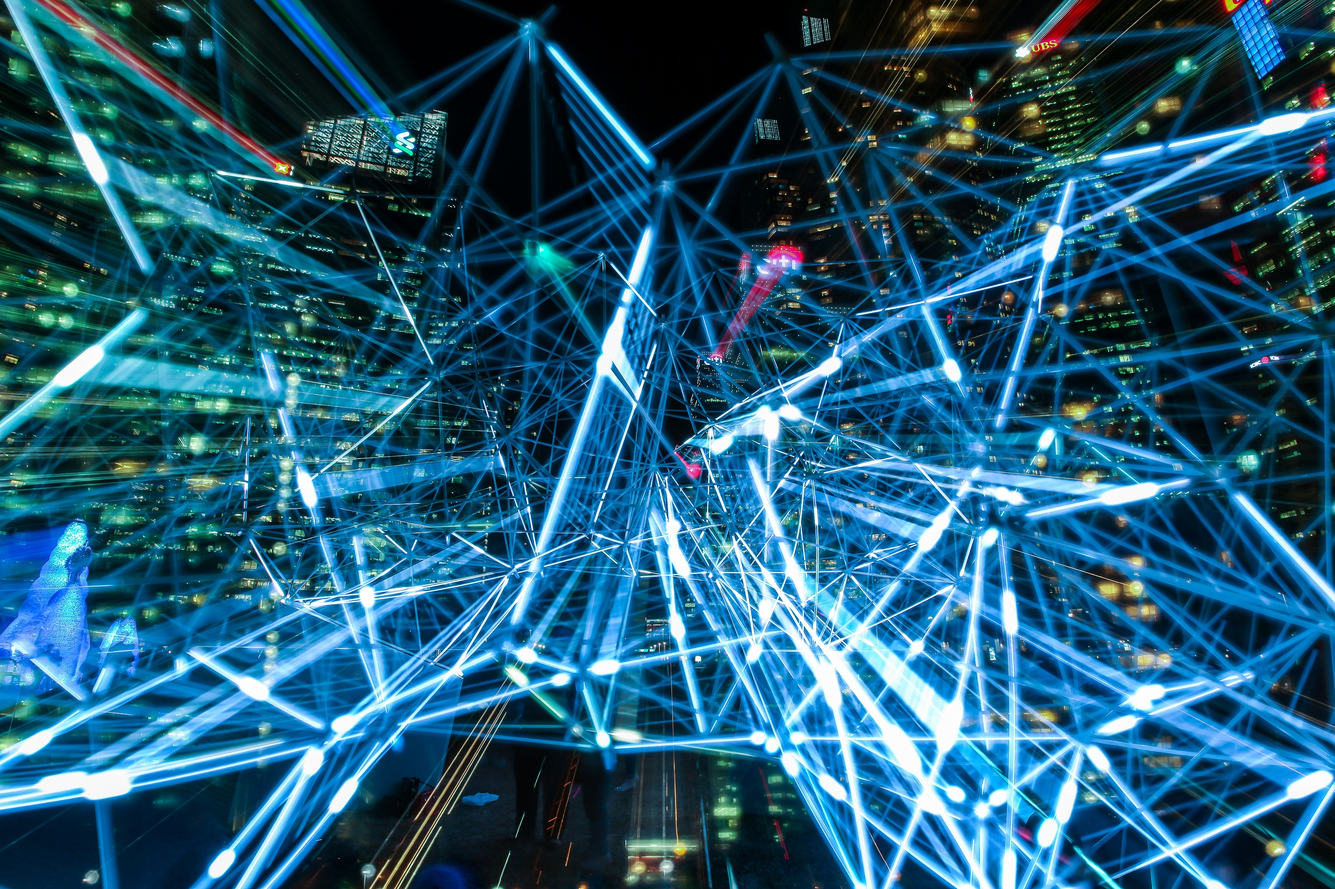
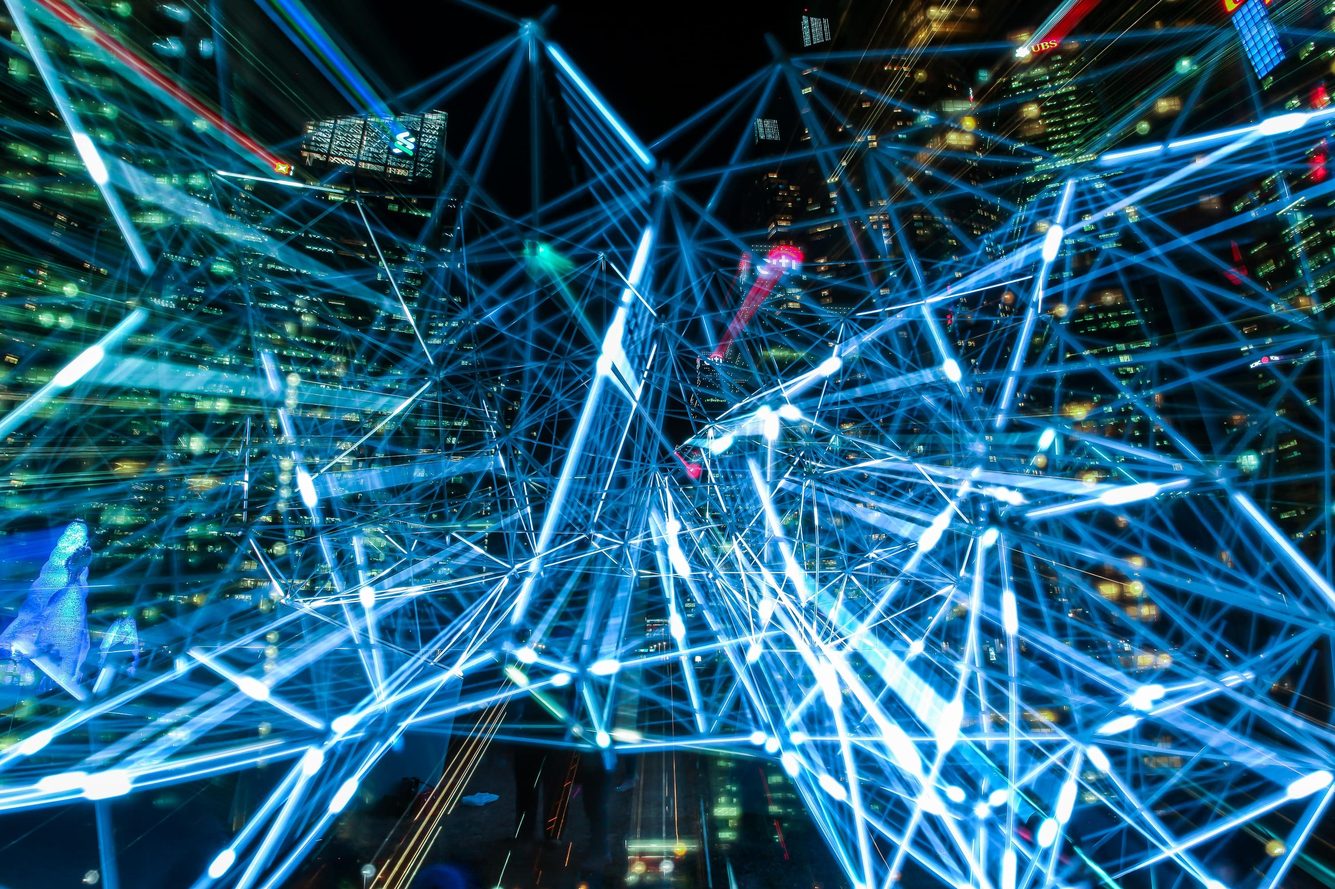
Se han comprimido las imagenes para la correcta optimizacion del sitio web.

diff --git a/source/css/styles.css b/source/css/styles.css
@@ -192,7 +192,7 @@ text-decoration: underline;
 .cards-banner-two{
     width: 100%;
     height: 350px;
-    background: url(../img/patron2.jpg) no-repeat center center/Cover;
+    background: url(../img/patron2.jpg) center;
     background-size: 100%;
     background-position: 25% 25%;
     margin-bottom: 40px;
